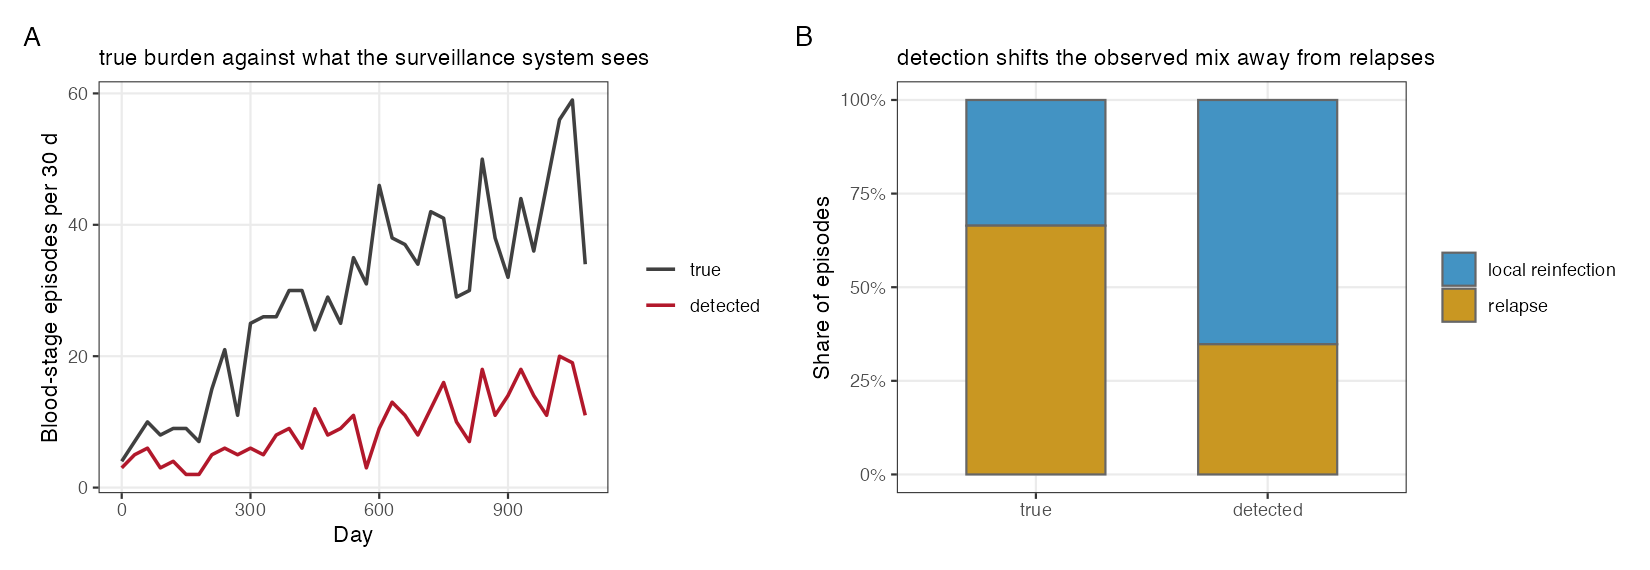
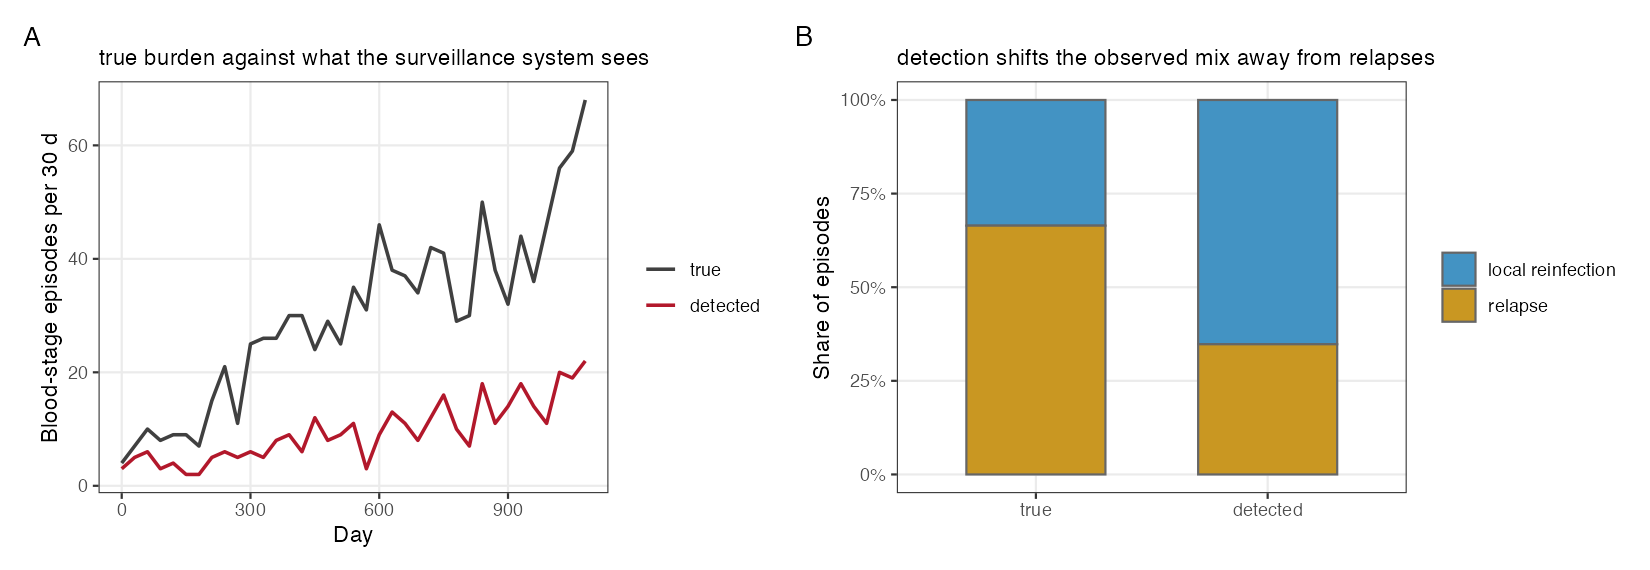
Count the documents' outcrossing over the run's second half, and fix three captions
The share of recombinant uptakes was counted over the whole run while
every other quoted number covers the second half; it is now counted over
the second half too (6.6%, 1.2-11.6% over the ten seeds). The detection
figure's last 30-day window holds 15 days, so its counts halved there;
each window is now a rate per 30 days, a window without an episode a
zero. Panel A's caption says each lineage's band is as tall as its
clones, so the bands can exceed the COI, and that the reservoir counts
every dormant hypnozoite; the text no longer mentions a shaded area
panel D does not have. (C2 review C10, C19, C20, C27)

diff --git a/MODEL_DESCRIPTION.md b/MODEL_DESCRIPTION.md
@@ -24,10 +24,12 @@ source repository, makes them and writes these numbers to `man/figures/represent
 
 ![Representative run](man/figures/README-representative-run.png)
 
-**A** one host's lineage trajectory, the host with the most relapses: coloured bands are
-blood-stage lineages, the dashed line is that host's hypnozoite reservoir, and the marks below show
-new infections (triangles) against relapses (circles) — and, on a run with treatment failure,
-recrudescences (diamonds). **B** population host-state composition over time — note the teal
+**A** one host's lineage trajectory, the host with the most relapses: each colour is a lineage,
+its band as tall as that lineage's blood-stage clones (a relapse into a patent clone of its own
+lineage stacks on it, so the bands' total can exceed the COI, which counts lineages); the dashed
+line is that host's hypnozoite reservoir, every dormant hypnozoite it carries; and the marks
+below show new infections (triangles) against relapses (circles) — and, on a run with treatment
+failure, recrudescences (diamonds). **B** population host-state composition over time — note the teal
 *reservoir-only* band, which is invisible to any blood survey. **C** each infected host's peak
 COI against the relapses it has over the run (boxes where at least 5 hosts reach that peak; every
 level labelled with its n). **D** **molFOB vs FOI** — the compound force of blood-stage **clone
@@ -38,11 +40,13 @@ class across relatedness bands.
 
 Panel D carries the central vivax quantity: **molFOB 3.2 vs FOI 1.1 new clones per person-year**
 (means over the ten seeds; 0.6–5.4 and 0.3–1.8), **so about two-thirds of new blood-stage clones
-are relapses**, and the gap widens through the run as the reservoir accumulates. Any method that reads new episodes as new transmission is reading that whole shaded
-area as something it is not. (Panel E is deliberately a composition plot rather than a box: most
+are relapses**, and the gap widens through the run as the reservoir accumulates. Any method that
+reads new episodes as new transmission is reading the whole gap between the two lines as
+something it is not. (Panel E is deliberately a composition plot rather than a box: most
 relationship classes are point masses, while same-oocyst siblings spread out, in two groups around
-0.6 and 0.2 of the genome, and this shows both. `plot_relatedness_ladder(style = "points")` gives the continuous view, and
-`plot_relapse_km()` the time from an infection to its batch's first relapse.)
+0.6 and 0.2 of the genome, and this shows both. `plot_relatedness_ladder(style = "points")` gives
+the continuous view, and `plot_relapse_km()` the time from an infection to its batch's first
+relapse.)
 
 ![IBD karyotype](man/figures/README-ibd-karyotype.png)
 
@@ -65,9 +69,9 @@ detected line list reads **33% relapse / 67% reinfection** (27–35%). Detection
 *inverts* the apparent mix, which is why any method that infers transmission from the observed
 origin split — Rc from case counts included — inherits a bias it cannot see.
 
-> At this transmission level outcrossing is rare — **5.4% of uptakes are recombinant** (0.7–9.6%
-> over the ten seeds; 251 of 5,025 in seed 1) — so mosaics like the second panel are genuinely
-> uncommon and most pairs sit at 0 or 1. That is a model output, not a plotting limitation, and it is the same effect that makes
+> At this transmission level outcrossing is rare — over the second half of the run **6.6% of
+> uptakes are recombinant** (1.2–11.6% over the ten seeds; 213 of 3,469 in seed 1) — so mosaics
+> like the second panel are genuinely uncommon and most pairs sit at 0 or 1. That is a model output, not a plotting limitation, and it is the same effect that makes
 > relapse hard to distinguish genetically in low-transmission settings.
 
 ---
